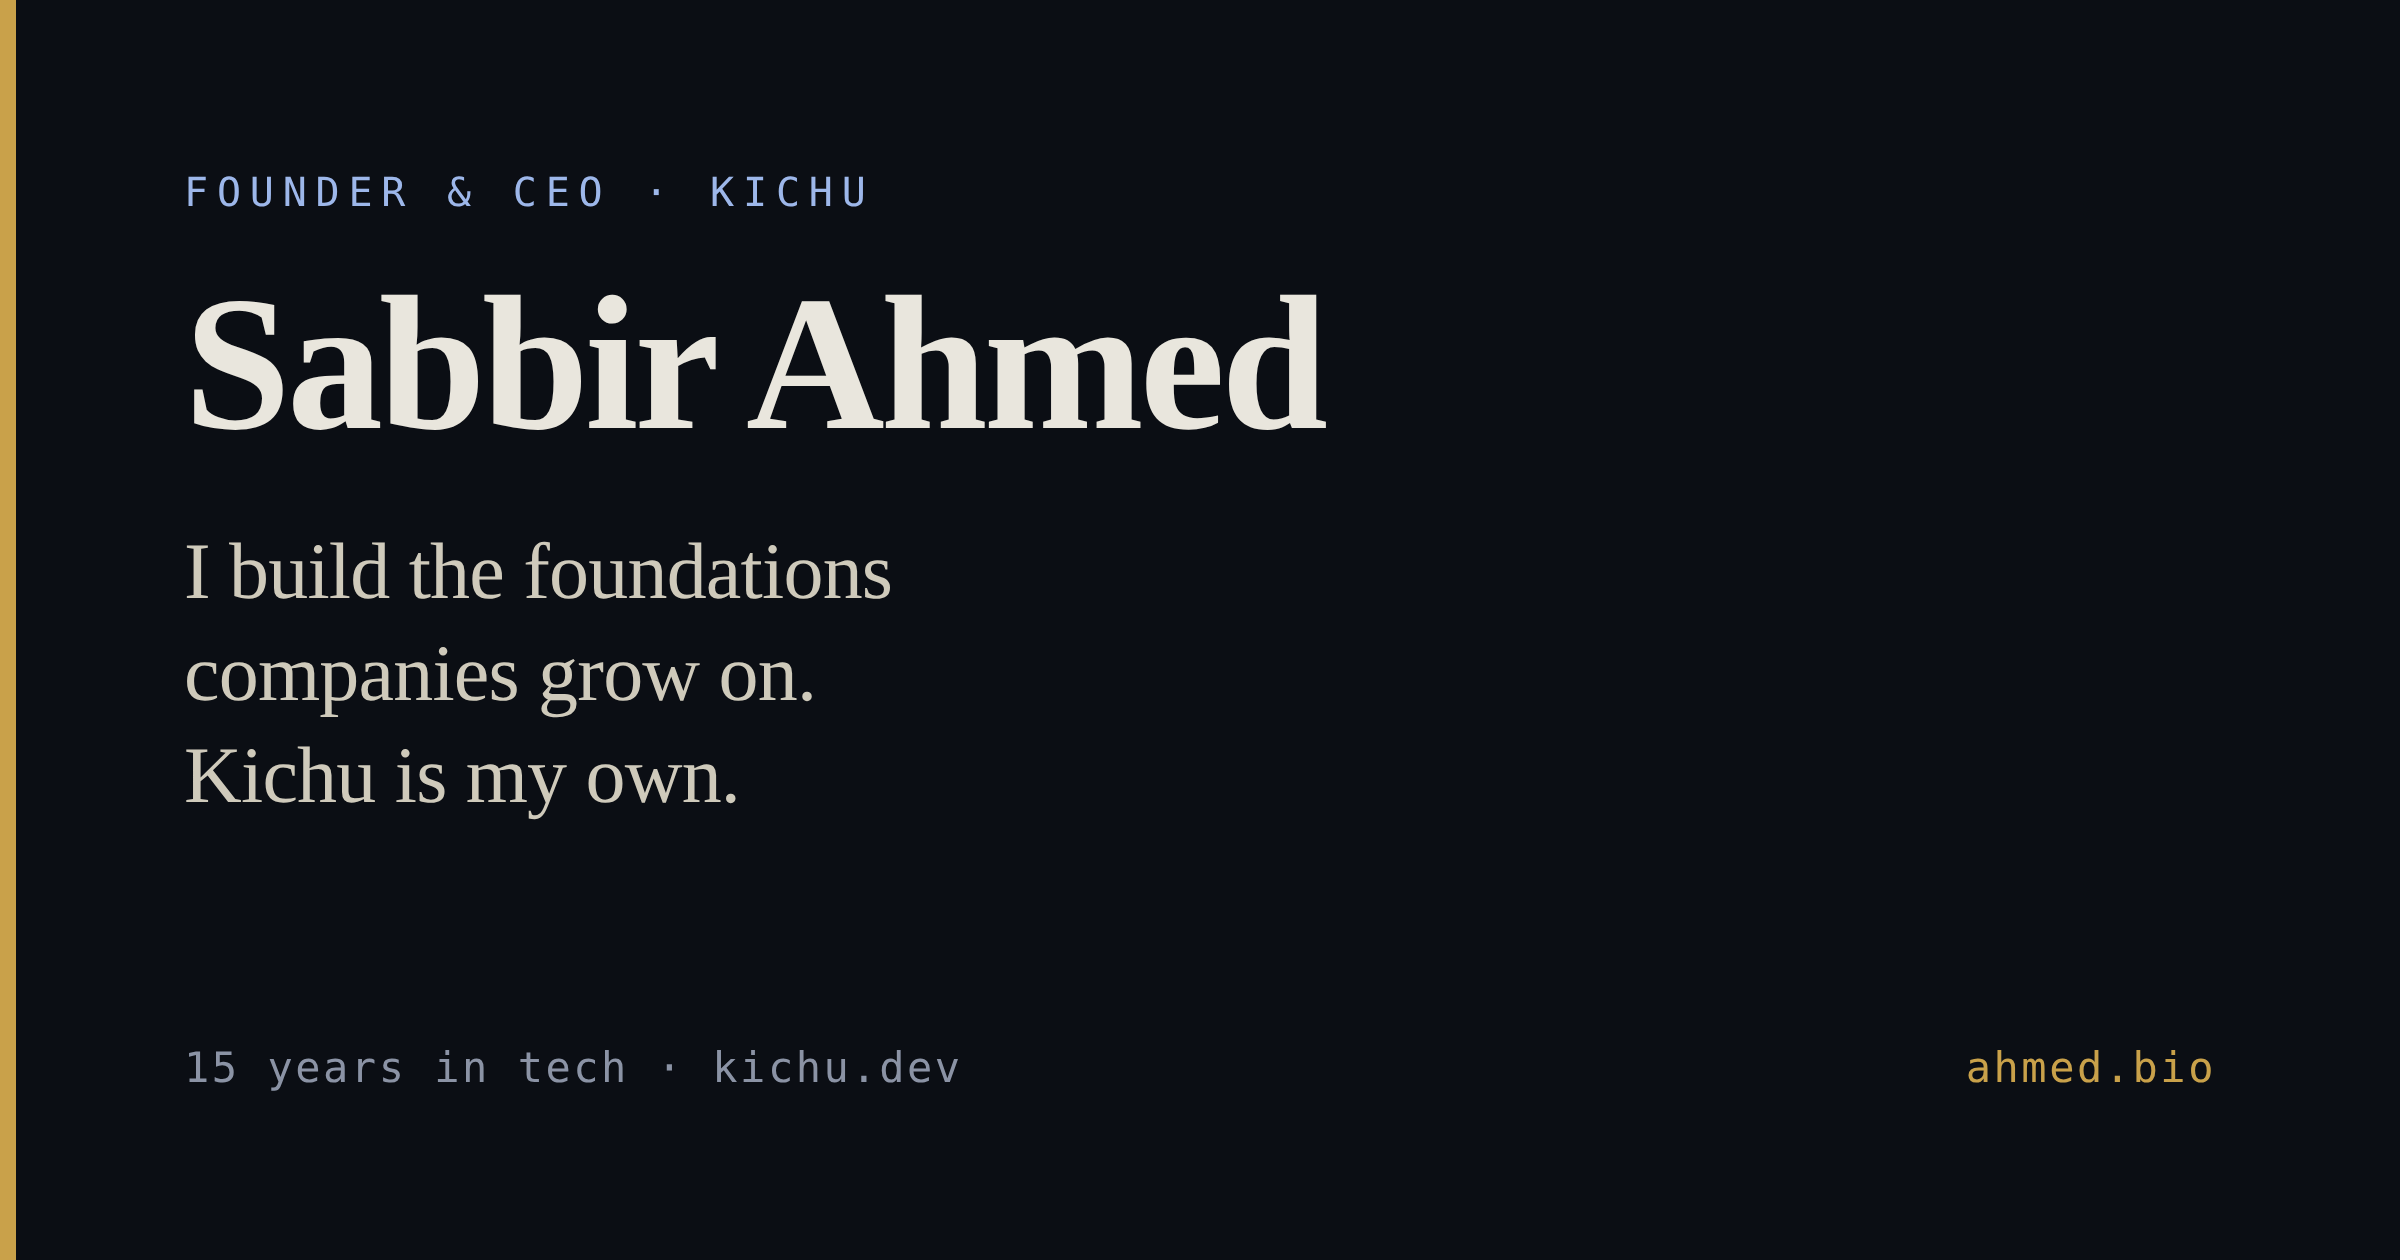
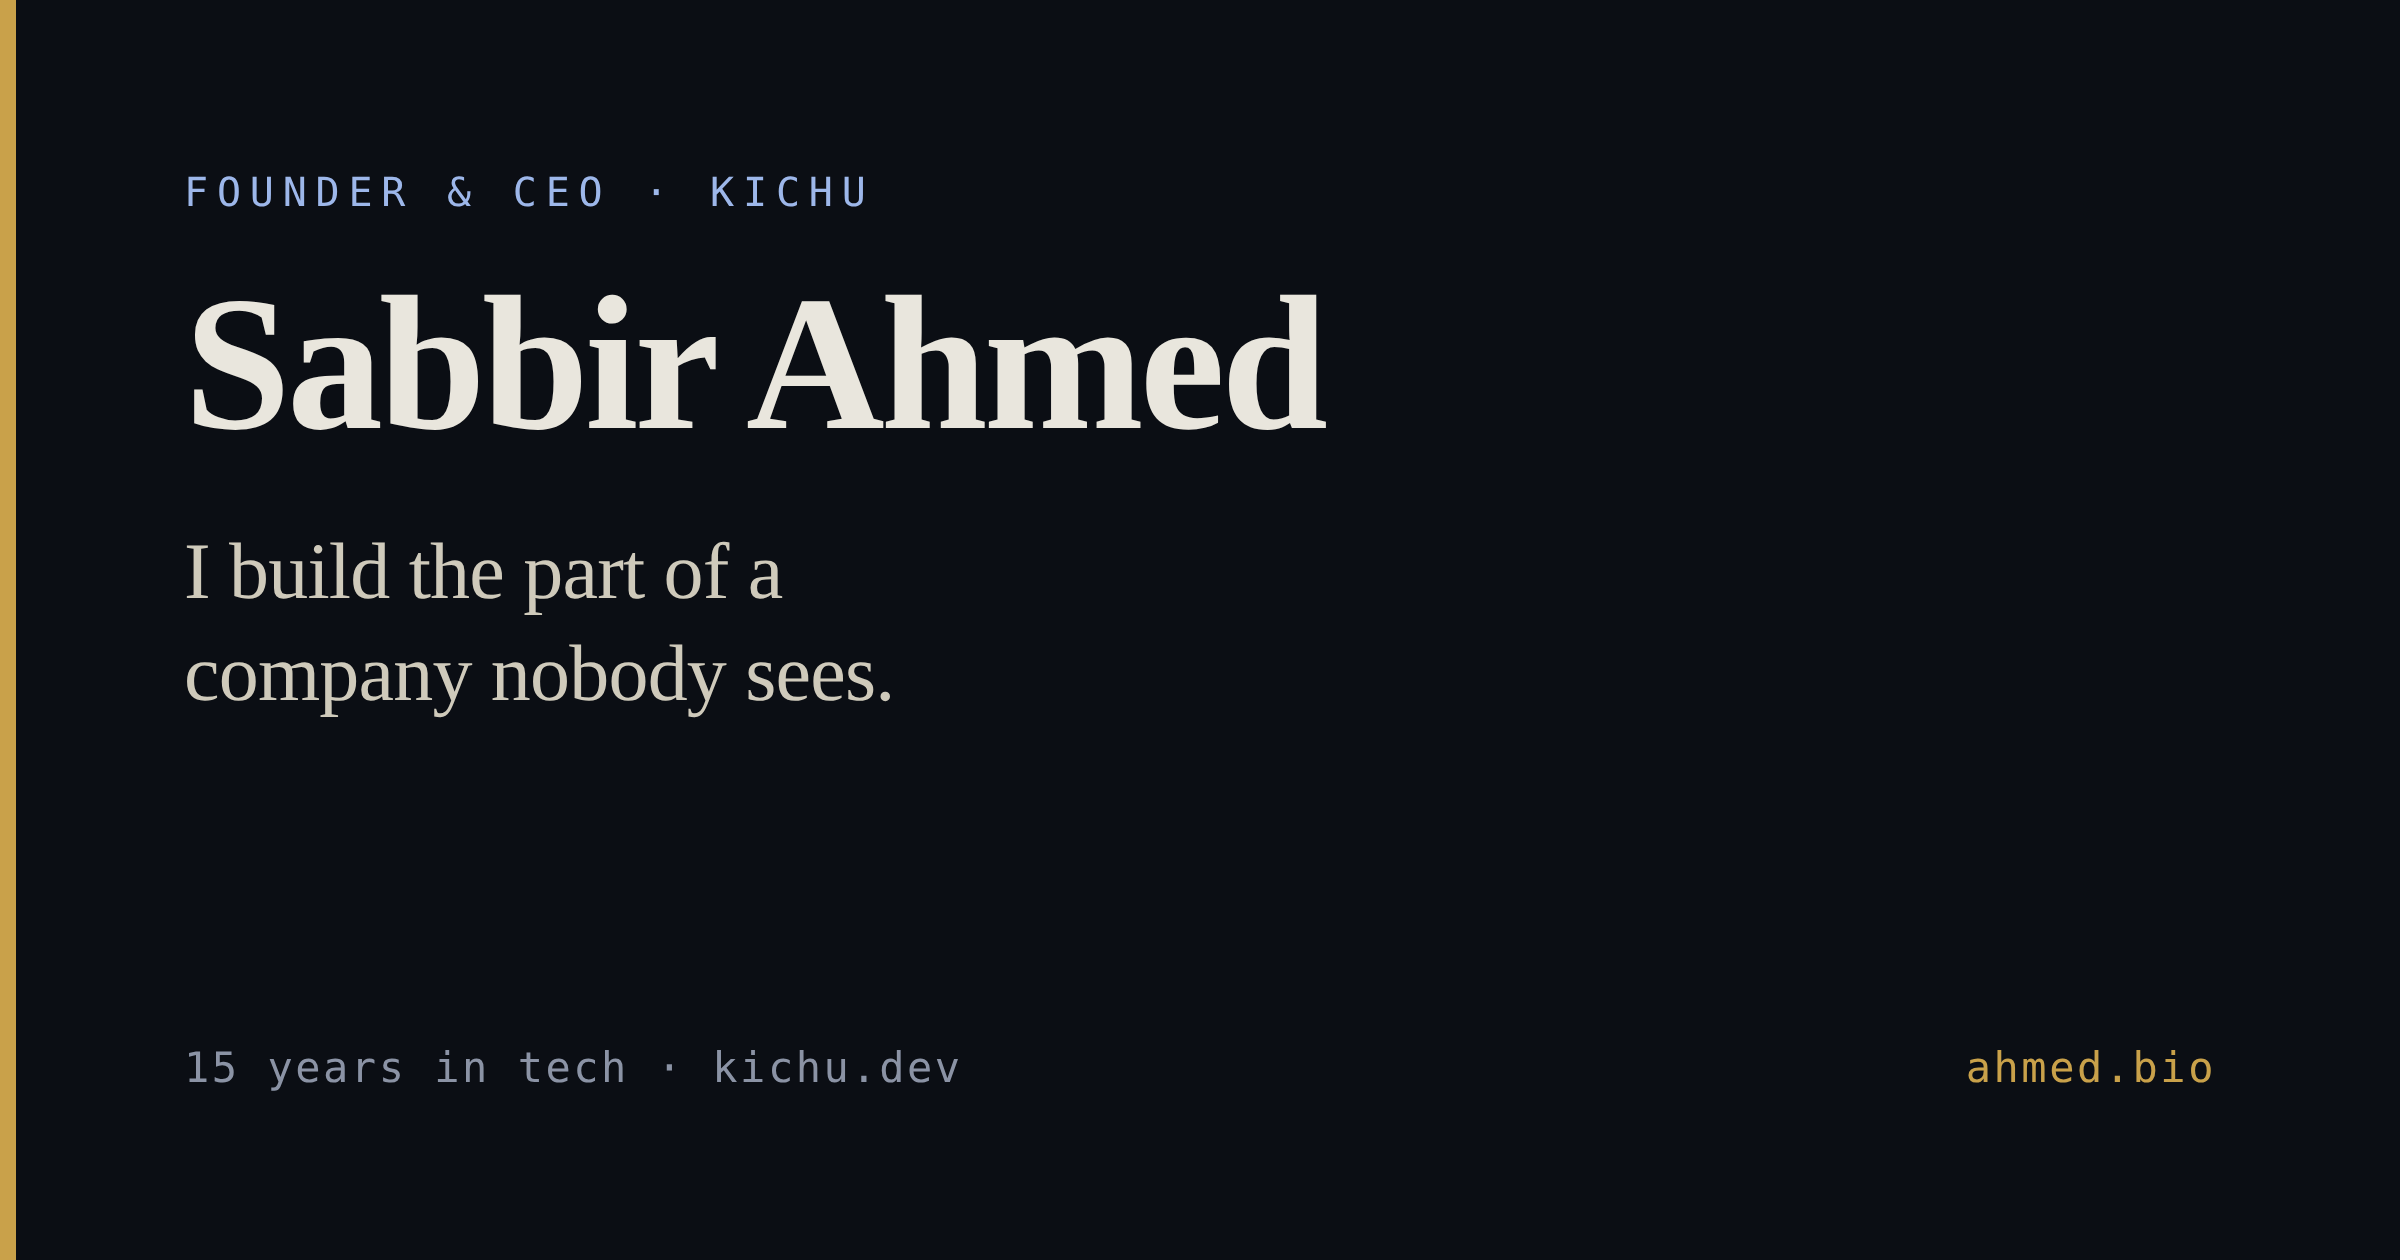
Rewrite the copy in a plainer, human voice
Every line on the page is rewritten: the hero, the Kichu card, How I
work, each Before Kichu entry, Off the clock, Contact and the
colophon. Out go the slogan headline, the stacked aphorisms and the
lists of three; in go plain sentences, concrete detail and a clearer
through-line. The headline is now "I build the part of a company
nobody sees."

The facts are the same as before, and the Kichu card still says only
what kichu.dev says publicly.

Claude-Session: https://claude.ai/code/session_013r8mJJvnfrQCghjxHDd4bm

Changed region(s): [[0.0625, 0.5881, 0.3125, 0.65], [0.2188, 0.4333, 0.375, 0.4952], [0.1875, 0.5262, 0.375, 0.5571]]

diff --git a/site/og.html b/site/og.html
@@ -30,7 +30,7 @@
   <div>
     <div class="eyebrow">Founder &amp; CEO · Kichu</div>
     <div class="name">Sabbir Ahmed</div>
-    <div class="line">I build the foundations companies grow on. Kichu is my own.</div>
+    <div class="line">I build the part of a company nobody sees.</div>
   </div>
   <div class="foot">
     <span>15 years in tech · kichu.dev</span>
